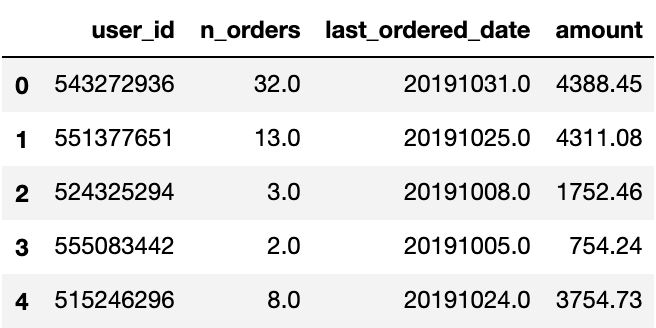
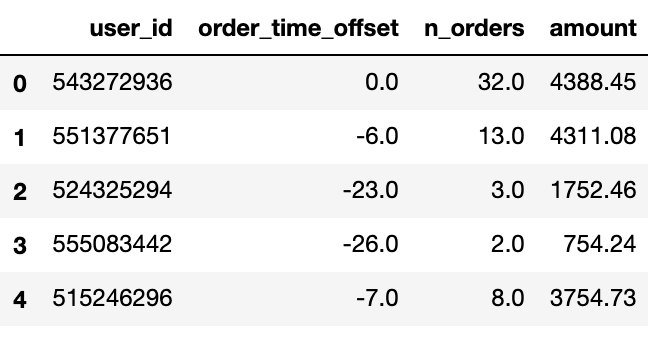
Удалил ненужные шаги из описания

diff --git a/README.md b/README.md
@@ -165,21 +165,6 @@ for index, value in zipped_amount:
 
 <img src='img/amount.png'/> 
 
-И так последний штрих в вычислениях. Нужно  преобразовать `last_ordered_date` в `recency`,  то есть вычесть самый-самый последний день, указанные в данных **(20191031)**, из последнего совершения покупки определенного клиента.
-
-```python
-max_date = smartphones['event_date'].max()
-
-users['order_time_offset'] = max_date - users['last_ordered_date'])
-```
-<img src='img/offset.png'/> 
-
-Дропнем уже ненужную колонку `last_ordered_date`.
-
-```python
-users = users.drop('last_ordered_date', axis=1)
-```
-
 Все готов для RFM. Наведем красоту: переименуем колонки, упорядочим, уберем точку из значений, закастив их к типу `int`. И получим такой результат:
 <img src='img/rfm.png'/> 
 
